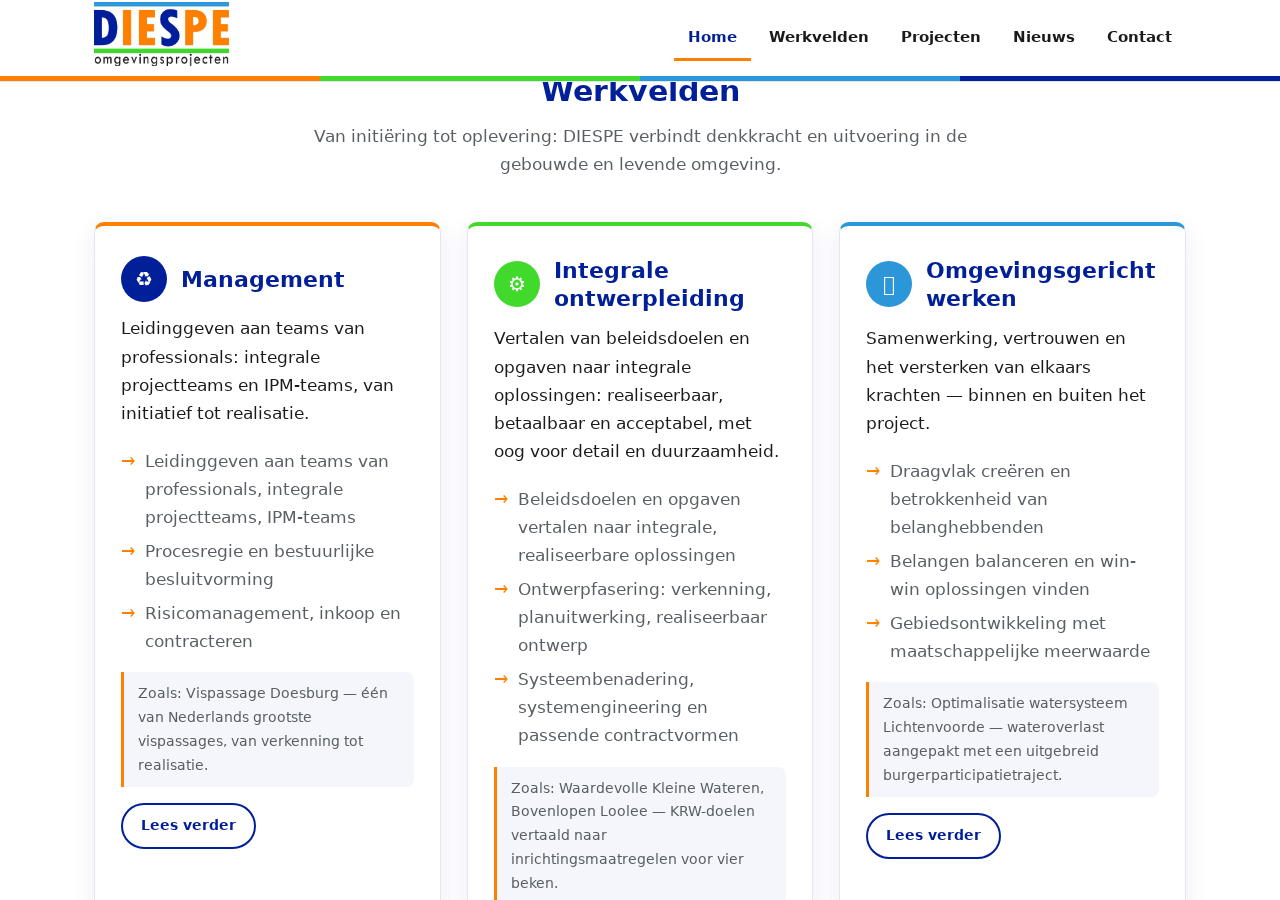
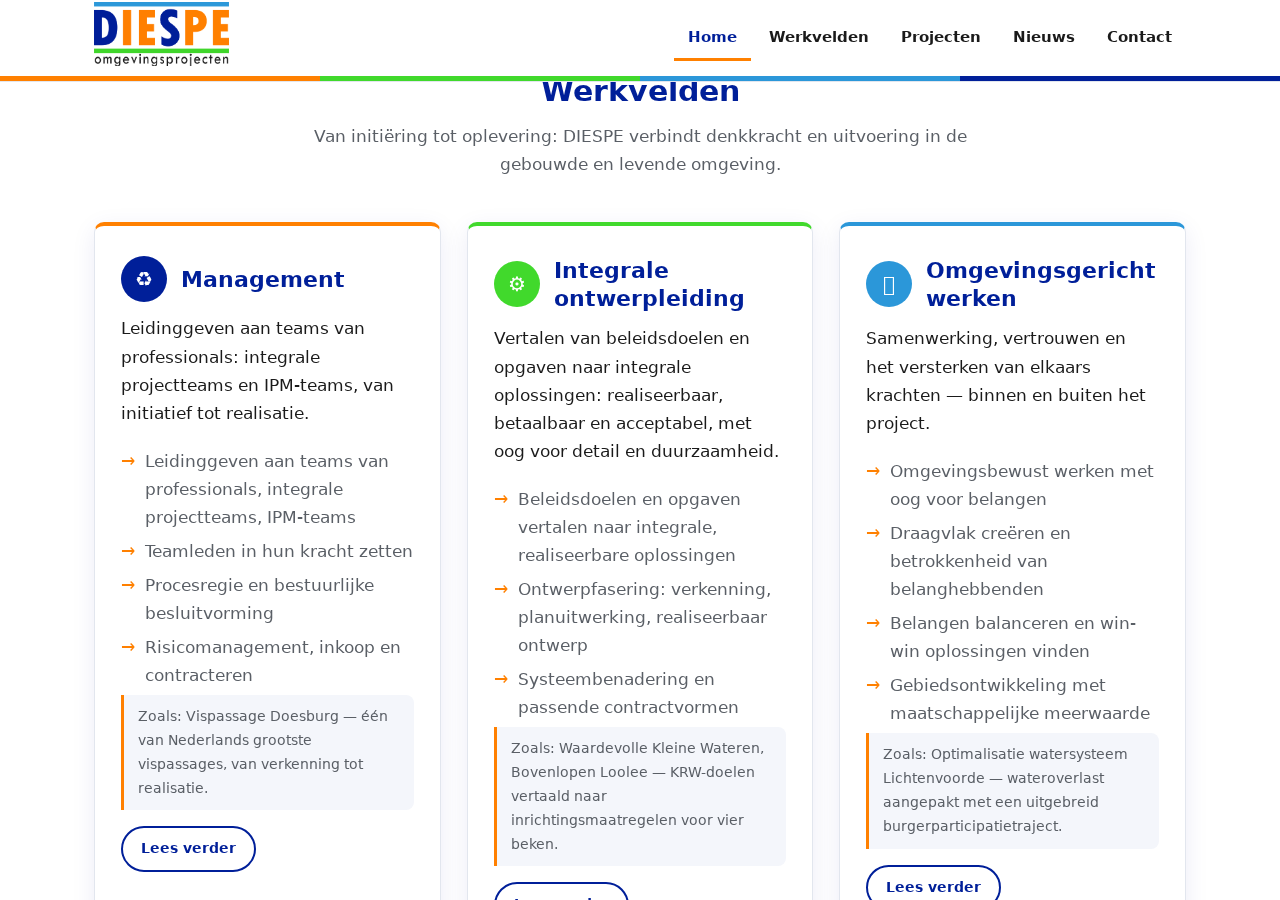
Werkvelden/Over-kaarten in balans, echte kijkruimte-foto vispassage, knoppen in titelkleur

Changed region(s): [[0.6562, 0.4978, 0.9062, 0.9956], [0.0938, 0.5911, 0.3125, 0.9644], [0.375, 0.7778, 0.5938, 1.0]]

diff --git a/preview/index.html b/preview/index.html
@@ -73,6 +73,7 @@
         <p>Leidinggeven aan teams van professionals: integrale projectteams en IPM-teams, van initiatief tot realisatie.</p>
         <ul>
           <li>Leidinggeven aan teams van professionals, integrale projectteams, IPM-teams</li>
+          <li>Teamleden in hun kracht zetten</li>
           <li>Procesregie en bestuurlijke besluitvorming</li>
           <li>Risicomanagement, inkoop en contracteren</li>
         </ul>
@@ -85,7 +86,7 @@
         <ul>
           <li>Beleidsdoelen en opgaven vertalen naar integrale, realiseerbare oplossingen</li>
           <li>Ontwerpfasering: verkenning, planuitwerking, realiseerbaar ontwerp</li>
-          <li>Systeembenadering, systemengineering en passende contractvormen</li>
+          <li>Systeembenadering en passende contractvormen</li>
         </ul>
         <p class="card-case">Zoals: Waardevolle Kleine Wateren, Bovenlopen Loolee &mdash; KRW-doelen vertaald naar inrichtingsmaatregelen voor vier beken.</p>
         <a class="btn btn--outline card-more" href="#">Lees verder</a>
@@ -94,6 +95,7 @@
         <div class="card-header"><span class="card-icon" aria-hidden="true">&#127795;</span><h3>Omgevingsgericht werken</h3></div>
         <p>Samenwerking, vertrouwen en het versterken van elkaars krachten &mdash; binnen en buiten het project.</p>
         <ul>
+          <li>Omgevingsbewust werken met oog voor belangen</li>
           <li>Draagvlak cre&euml;ren en betrokkenheid van belanghebbenden</li>
           <li>Belangen balanceren en win-win oplossingen vinden</li>
           <li>Gebiedsontwikkeling met maatschappelijke meerwaarde</li>
@@ -153,7 +155,7 @@
         <div class="card-header"><span class="card-icon" aria-hidden="true">&#128100;</span><h3>Diederik Speksnijder</h3></div>
         <p>Als ervaren projectmanager, technisch manager en omgevingsmanager verbindt Diederik specialisten en stakeholders om gezamenlijke doelen te bereiken. Hij denkt in kansen, balanceert belangen en vindt win-win-oplossingen &mdash; van initiatief tot realisatie.</p>
         <p>Van vispassage Doesburg tot windpark Duiven: met de focus op duurzame, effici&euml;nte oplossingen realiseert hij technisch solide projecten met maatschappelijke meerwaarde.</p>
-        <a class="btn card-more" href="#">Meer over Diederik</a>
+        <a class="btn btn--kleur1 card-more" href="#">Meer over Diederik</a>
       </div>
       <div class="card">
         <div class="card-header"><span class="card-icon" aria-hidden="true">&#9733;</span><h3>Kernkwaliteiten</h3></div>
@@ -161,9 +163,11 @@
           <li>Eerst denken, dan doen</li>
           <li>Denkt in kansen en oplossingen</li>
           <li>Verbindt specialisten en stakeholders</li>
+          <li>Omgevingsgericht werken, oog voor belang van stakeholders</li>
           <li>Integrale benadering, innovatieve methoden</li>
           <li>Maatschappelijke meerwaarde als uitgangspunt</li>
         </ul>
+        <a class="btn btn--kleur2 card-more" href="#">Werkvelden</a>
       </div>
       <div class="card">
         <div class="card-header"><span class="card-icon" aria-hidden="true">&#127757;</span><h3>Werkgebieden</h3></div>
@@ -172,9 +176,11 @@
           <li>Energietransitie</li>
           <li>Waterketen</li>
           <li>Waterveiligheid</li>
-          <li>Utiliteit en natuurherstel</li>
+          <li>Utiliteit</li>
+          <li>Natuurherstel</li>
+          <li>Gebiedsontwikkeling</li>
         </ul>
-        <a class="btn btn--outline card-more" href="#">Meer projecten</a>
+        <a class="btn btn--kleur3 card-more" href="#">Meer projecten</a>
       </div>
     </div>
     <p class="section-intro" style="margin-top:44px; margin-bottom:0;">We voeren onze diensten en werkzaamheden uit volgens De Nieuwe Regeling 2011 (DNR 2011), herziening juli 2013.</p>

diff --git a/preview/style.css b/preview/style.css
@@ -681,3 +681,18 @@ button[type="submit"], .wp-block-search__button, .search-submit { border: 0; cur
   border-top-color: var(--diespe-blue);
   background: linear-gradient(180deg, var(--diespe-bg-alt) 0%, #fff 40%);
 }
+
+/* Knoppen in titelkleur (Over DIESPE) */
+.btn--kleur1 { background: var(--diespe-blue); border-color: var(--diespe-blue); }
+.btn--kleur1:hover, .btn--kleur1:focus { background: var(--diespe-orange); border-color: var(--diespe-orange); }
+.btn--kleur2 { background: var(--diespe-green); border-color: var(--diespe-green); }
+.btn--kleur2:hover, .btn--kleur2:focus { background: var(--diespe-orange); border-color: var(--diespe-orange); }
+.btn--kleur3 { background: var(--diespe-blue-light); border-color: var(--diespe-blue-light); }
+.btn--kleur3:hover, .btn--kleur3:focus { background: var(--diespe-orange); border-color: var(--diespe-orange); }
+
+/* Kaarten gelijk hoog: knop onderaan vastpunten */
+.card { display: flex; flex-direction: column; }
+.card > :last-child, .card > .card-more { margin-top: auto; }
+.card ul { margin-bottom: 0; }
+.card p:last-of-type { margin-bottom: 0; }
+.card .card-more { align-self: flex-start; margin-top: 16px; }

diff --git a/style.css b/style.css
@@ -681,3 +681,18 @@ button[type="submit"], .wp-block-search__button, .search-submit { border: 0; cur
   border-top-color: var(--diespe-blue);
   background: linear-gradient(180deg, var(--diespe-bg-alt) 0%, #fff 40%);
 }
+
+/* Knoppen in titelkleur (Over DIESPE) */
+.btn--kleur1 { background: var(--diespe-blue); border-color: var(--diespe-blue); }
+.btn--kleur1:hover, .btn--kleur1:focus { background: var(--diespe-orange); border-color: var(--diespe-orange); }
+.btn--kleur2 { background: var(--diespe-green); border-color: var(--diespe-green); }
+.btn--kleur2:hover, .btn--kleur2:focus { background: var(--diespe-orange); border-color: var(--diespe-orange); }
+.btn--kleur3 { background: var(--diespe-blue-light); border-color: var(--diespe-blue-light); }
+.btn--kleur3:hover, .btn--kleur3:focus { background: var(--diespe-orange); border-color: var(--diespe-orange); }
+
+/* Kaarten gelijk hoog: knop onderaan vastpunten */
+.card { display: flex; flex-direction: column; }
+.card > :last-child, .card > .card-more { margin-top: auto; }
+.card ul { margin-bottom: 0; }
+.card p:last-of-type { margin-bottom: 0; }
+.card .card-more { align-self: flex-start; margin-top: 16px; }

diff --git a/front-page.php b/front-page.php
@@ -21,21 +21,21 @@ $kaarten = array(
 		'icon'    => '&#9851;',
 		'titel'   => diespe_home_text( 'kaart1_titel', __( 'Management', 'diespe' ) ),
 		'tekst'   => diespe_home_text( 'kaart1_tekst', __( 'Leidinggeven aan teams van professionals: integrale projectteams en IPM-teams, van initiatief tot realisatie.', 'diespe' ) ),
-		'punten'  => diespe_home_text( 'kaart1_punten', __( "Leidinggeven aan teams van professionals, integrale projectteams, IPM-teams\nProcesregie en bestuurlijke besluitvorming\nRisicomanagement, inkoop en contracteren", 'diespe' ) ),
+		'punten'  => diespe_home_text( 'kaart1_punten', __( "Leidinggeven aan teams van professionals, integrale projectteams, IPM-teams\nTeamleden in hun kracht zetten\nProcesregie en bestuurlijke besluitvorming\nRisicomanagement, inkoop en contracteren", 'diespe' ) ),
 		'voorbeeld' => diespe_home_text( 'kaart1_voorbeeld', __( 'Zoals: Vispassage Doesburg — één van Nederlands grootste vispassages, van verkenning tot realisatie.', 'diespe' ) ),
 	),
 	array(
 		'icon'    => '&#9881;',
 		'titel'   => diespe_home_text( 'kaart2_titel', __( 'Integrale ontwerpleiding', 'diespe' ) ),
 		'tekst'   => diespe_home_text( 'kaart2_tekst', __( 'Vertalen van beleidsdoelen en opgaven naar integrale oplossingen: realiseerbaar, betaalbaar en acceptabel, met oog voor detail en duurzaamheid.', 'diespe' ) ),
-		'punten'  => diespe_home_text( 'kaart2_punten', __( "Beleidsdoelen en opgaven vertalen naar integrale, realiseerbare oplossingen\nOntwerpfasering: verkenning, planuitwerking, realiseerbaar ontwerp\nSysteembenadering, systemengineering en passende contractvormen", 'diespe' ) ),
+		'punten'  => diespe_home_text( 'kaart2_punten', __( "Beleidsdoelen en opgaven vertalen naar integrale, realiseerbare oplossingen\nOntwerpfasering: verkenning, planuitwerking, realiseerbaar ontwerp\nSysteembenadering en passende contractvormen", 'diespe' ) ),
 		'voorbeeld' => diespe_home_text( 'kaart2_voorbeeld', __( 'Zoals: Waardevolle Kleine Wateren, Bovenlopen Loolee — KRW-doelen vertaald naar inrichtingsmaatregelen voor vier beken.', 'diespe' ) ),
 	),
 	array(
 		'icon'    => '&#127795;',
 		'titel'   => diespe_home_text( 'kaart3_titel', __( 'Omgevingsgericht werken', 'diespe' ) ),
 		'tekst'   => diespe_home_text( 'kaart3_tekst', __( 'Samenwerking, vertrouwen en het versterken van elkaars krachten — binnen en buiten het project.', 'diespe' ) ),
-		'punten'  => diespe_home_text( 'kaart3_punten', __( "Draagvlak creëren en betrokkenheid van belanghebbenden\nBelangen balanceren en win-win oplossingen vinden\nGebiedsontwikkeling met maatschappelijke meerwaarde", 'diespe' ) ),
+		'punten'  => diespe_home_text( 'kaart3_punten', __( "Omgevingsbewust werken met oog voor belangen\nDraagvlak creëren en betrokkenheid van belanghebbenden\nBelangen balanceren en win-win oplossingen vinden\nGebiedsontwikkeling met maatschappelijke meerwaarde", 'diespe' ) ),
 		'voorbeeld' => diespe_home_text( 'kaart3_voorbeeld', __( 'Zoals: Optimalisatie watersysteem Lichtenvoorde — wateroverlast aangepakt met een uitgebreid burgerparticipatietraject.', 'diespe' ) ),
 	),
 );
@@ -168,7 +168,7 @@ $over_tekst2 = diespe_home_text( 'over_tekst2', __( 'Van vispassage Doesburg tot
 				</div>
 				<p><?php echo esc_html( $over_tekst1 ); ?></p>
 				<p><?php echo esc_html( $over_tekst2 ); ?></p>
-				<a class="btn card-more" href="<?php echo esc_url( home_url( '/over-diederik-speksnijder/' ) ); ?>"><?php esc_html_e( 'Meer over Diederik', 'diespe' ); ?></a>
+				<a class="btn btn--kleur1 card-more" href="<?php echo esc_url( home_url( '/over-diederik-speksnijder/' ) ); ?>"><?php esc_html_e( 'Meer over Diederik', 'diespe' ); ?></a>
 			</div>
 			<div class="card">
 				<div class="card-header">
@@ -179,9 +179,11 @@ $over_tekst2 = diespe_home_text( 'over_tekst2', __( 'Van vispassage Doesburg tot
 					<li><?php esc_html_e( 'Eerst denken, dan doen', 'diespe' ); ?></li>
 					<li><?php esc_html_e( 'Denkt in kansen en oplossingen', 'diespe' ); ?></li>
 					<li><?php esc_html_e( 'Verbindt specialisten en stakeholders', 'diespe' ); ?></li>
+					<li><?php esc_html_e( 'Omgevingsgericht werken, oog voor belang van stakeholders', 'diespe' ); ?></li>
 					<li><?php esc_html_e( 'Integrale benadering, innovatieve methoden', 'diespe' ); ?></li>
 					<li><?php esc_html_e( 'Maatschappelijke meerwaarde als uitgangspunt', 'diespe' ); ?></li>
 				</ul>
+				<a class="btn btn--kleur2 card-more" href="<?php echo esc_url( home_url( '/werkvelden/' ) ); ?>"><?php esc_html_e( 'Werkvelden', 'diespe' ); ?></a>
 			</div>
 			<div class="card">
 				<div class="card-header">
@@ -193,9 +195,11 @@ $over_tekst2 = diespe_home_text( 'over_tekst2', __( 'Van vispassage Doesburg tot
 					<li><?php esc_html_e( 'Energietransitie', 'diespe' ); ?></li>
 					<li><?php esc_html_e( 'Waterketen', 'diespe' ); ?></li>
 					<li><?php esc_html_e( 'Waterveiligheid', 'diespe' ); ?></li>
-					<li><?php esc_html_e( 'Utiliteit en natuurherstel', 'diespe' ); ?></li>
+					<li><?php esc_html_e( 'Utiliteit', 'diespe' ); ?></li>
+					<li><?php esc_html_e( 'Natuurherstel', 'diespe' ); ?></li>
+					<li><?php esc_html_e( 'Gebiedsontwikkeling', 'diespe' ); ?></li>
 				</ul>
-				<a class="btn btn--outline card-more" href="<?php echo esc_url( get_post_type_archive_link( 'diespe_project' ) ); ?>"><?php esc_html_e( 'Meer projecten', 'diespe' ); ?></a>
+				<a class="btn btn--kleur3 card-more" href="<?php echo esc_url( get_post_type_archive_link( 'diespe_project' ) ); ?>"><?php esc_html_e( 'Meer projecten', 'diespe' ); ?></a>
 			</div>
 		</div>
 		<p class="section-intro" style="margin-top:44px; margin-bottom:0;"><?php esc_html_e( 'We voeren onze diensten en werkzaamheden uit volgens De Nieuwe Regeling 2011 (DNR 2011), herziening juli 2013.', 'diespe' ); ?></p>
